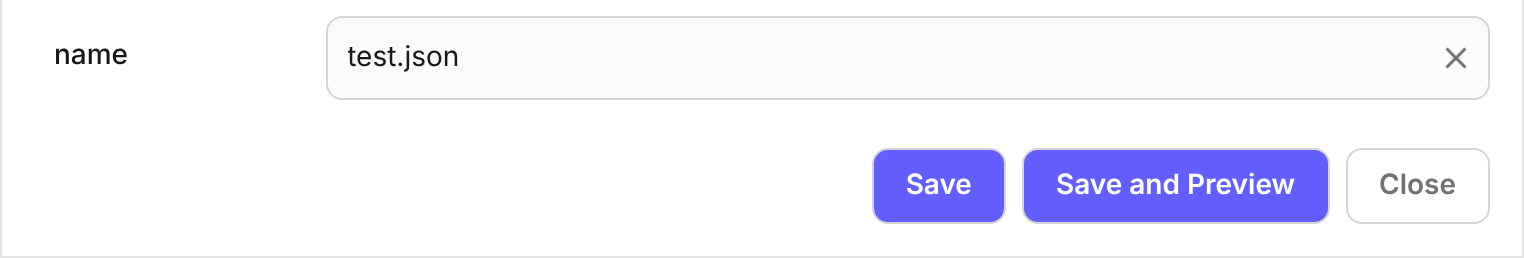
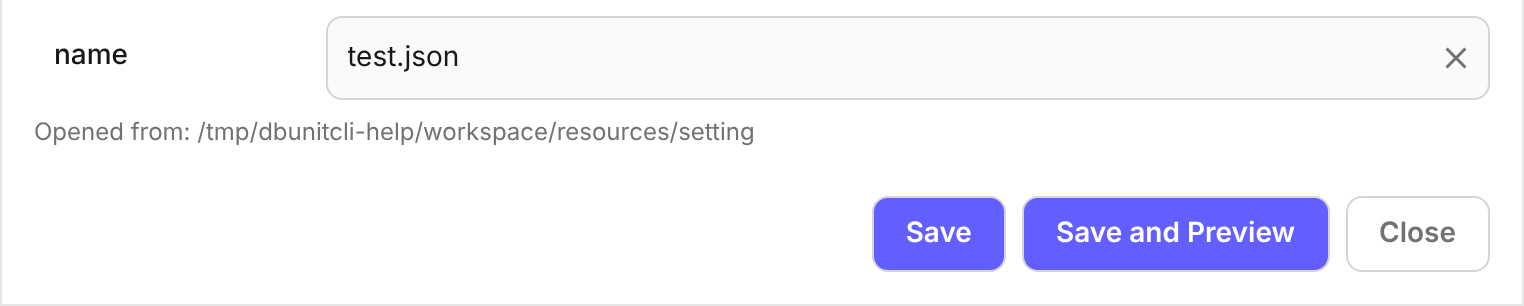
tauri: 名前メニューを閉じた状態をnullで表し、起動直後の描画エラーを直す
- サイドバーの名前メニューは閉じている間も{}のeditNameで描画され、useParameterActionsのcommand.toLowerCase()が例外になり画面全体が落ちていた
- 閉じた状態をnullで表し、メニュー本体（操作・外側クリックで閉じる）は開いているときだけ描画する。メニューから開くダイアログは閉じた後も残す
- 撮影スクリプトを複数行の入力欄の行ごとのid（name_0等）に合わせ、ヘルプの画面イメージを撮り直す

Claude-Session: https://claude.ai/code/session_01BG6cLyd2aknnpcF77aoAGH

diff --git a/tauri/src/app/sidebar/NameEditMenu.tsx b/tauri/src/app/sidebar/NameEditMenu.tsx
@@ -26,31 +26,15 @@ type MenuEditProp = {
 	handleMenuParameterize?: () => void;
 };
 
+// 名前の⋮メニュー（editNameがnullなら閉じている）と、メニューから開くダイアログ。
+// ダイアログはメニューを閉じた後も開いておくため、メニュー（editName）とは別に持つ
 export default function NameEditMenu({
 	editName,
 	setEditName,
 }: {
-	editName: EditName;
-	setEditName: (editName: EditName) => void;
+	editName: EditName | null;
+	setEditName: (editName: EditName | null) => void;
 }) {
-	const wrapperRef = useRef<HTMLDivElement>(null);
-	useEffect(() => {
-		function handleClickOutside(event: Event) {
-			if (
-				wrapperRef.current &&
-				!wrapperRef.current.contains(event.target as HTMLElement)
-			) {
-				setEditName({} as EditName);
-			}
-		}
-		document.addEventListener("mousedown", handleClickOutside);
-		return () => document.removeEventListener("mousedown", handleClickOutside);
-	}, [setEditName]);
-	const { handleDelete, handleCopy, handleRename } = useParameterActions(
-		editName.command,
-		editName.name,
-	);
-	// メニューを閉じた後も開いておくため、メニュー（editName）とは別に持つ
 	const [parameterizeTarget, setParameterizeTarget] = useState<{
 		command: string;
 		name: string;
@@ -74,51 +58,15 @@ export default function NameEditMenu({
 				setDeleteTarget({ name, files });
 			}
 		});
-	const canParameterize =
-		editName.command && editName.command !== "parameterize";
 	return (
 		<>
-			{editName.name && (
-				<div
-					ref={wrapperRef}
-					className="absolute z-dropdown p-4 pb-0 text-content bg-surface border border-border-subtle rounded-lg shadow-dropdown"
-					style={
-						editName.afterEdge
-							? { left: editName.x, top: editName.y - 150 }
-							: { left: editName.x, top: editName.y }
-					}
-				>
-					<MenuEdit
-						name={editName.name}
-						handleMenuDelete={() => {
-							if (editName.command === "parameterize") {
-								deleteParameterizeOrConfirm(editName.name);
-							} else {
-								handleDelete();
-							}
-							setEditName({} as EditName);
-						}}
-						handleMenuRename={(newName: string) => {
-							handleRename(newName);
-							setEditName({} as EditName);
-						}}
-						handleMenuCopy={() => {
-							handleCopy();
-							setEditName({} as EditName);
-						}}
-						handleMenuParameterize={
-							canParameterize
-								? () => {
-										setParameterizeTarget({
-											command: editName.command,
-											name: editName.name,
-										});
-										setEditName({} as EditName);
-									}
-								: undefined
-						}
-					/>
-				</div>
+			{editName && (
+				<EditMenuPopup
+					editName={editName}
+					closeMenu={() => setEditName(null)}
+					onDeleteParameterize={deleteParameterizeOrConfirm}
+					onParameterize={setParameterizeTarget}
+				/>
 			)}
 			{deleteTarget && (
 				<ParameterizeDeleteDialog
@@ -138,6 +86,80 @@ export default function NameEditMenu({
 				/>
 			)}
 		</>
+	);
+}
+
+// 開いている⋮メニュー。外をクリックしたら閉じる。操作したら閉じる
+function EditMenuPopup({
+	editName,
+	closeMenu,
+	onDeleteParameterize,
+	onParameterize,
+}: {
+	editName: EditName;
+	closeMenu: () => void;
+	onDeleteParameterize: (name: string) => void;
+	onParameterize: (target: { command: string; name: string }) => void;
+}) {
+	const wrapperRef = useRef<HTMLDivElement>(null);
+	useEffect(() => {
+		function handleClickOutside(event: Event) {
+			if (
+				wrapperRef.current &&
+				!wrapperRef.current.contains(event.target as HTMLElement)
+			) {
+				closeMenu();
+			}
+		}
+		document.addEventListener("mousedown", handleClickOutside);
+		return () => document.removeEventListener("mousedown", handleClickOutside);
+	}, [closeMenu]);
+	const { handleDelete, handleCopy, handleRename } = useParameterActions(
+		editName.command,
+		editName.name,
+	);
+	const canParameterize = editName.command !== "parameterize";
+	return (
+		<div
+			ref={wrapperRef}
+			className="absolute z-dropdown p-4 pb-0 text-content bg-surface border border-border-subtle rounded-lg shadow-dropdown"
+			style={
+				editName.afterEdge
+					? { left: editName.x, top: editName.y - 150 }
+					: { left: editName.x, top: editName.y }
+			}
+		>
+			<MenuEdit
+				name={editName.name}
+				handleMenuDelete={() => {
+					if (editName.command === "parameterize") {
+						onDeleteParameterize(editName.name);
+					} else {
+						handleDelete();
+					}
+					closeMenu();
+				}}
+				handleMenuRename={(newName: string) => {
+					handleRename(newName);
+					closeMenu();
+				}}
+				handleMenuCopy={() => {
+					handleCopy();
+					closeMenu();
+				}}
+				handleMenuParameterize={
+					canParameterize
+						? () => {
+								onParameterize({
+									command: editName.command,
+									name: editName.name,
+								});
+								closeMenu();
+							}
+						: undefined
+				}
+			/>
+		</div>
 	);
 }
 function MenuEdit(prop: MenuEditProp) {

diff --git a/tauri/src/tests/app/sidebar/NameEditMenu.test.tsx b/tauri/src/tests/app/sidebar/NameEditMenu.test.tsx
@@ -1,0 +1,60 @@
+import { render, screen } from "@testing-library/react";
+import userEvent from "@testing-library/user-event";
+import { describe, expect, it, vi } from "vitest";
+import NameEditMenu from "../../../app/sidebar/NameEditMenu";
+
+const { mockParameterActions } = vi.hoisted(() => ({
+	mockParameterActions: vi.fn(),
+}));
+vi.mock("../../../hooks/useSelectParameter", () => ({
+	useParameterizeCandidates: () => ({ candidates: [], loading: false }),
+	useParameterizeFrom: () => vi.fn(),
+	useLoadParameterizeFiles: () => vi.fn(),
+	useDeleteParameterize: () => vi.fn(),
+	useParameterActions: (command: string, name: string) => {
+		mockParameterActions(command, name);
+		return {
+			handleDelete: vi.fn(),
+			handleCopy: vi.fn(),
+			handleRename: vi.fn(),
+		};
+	},
+}));
+
+const editName = {
+	name: "csvCsv",
+	command: "compare",
+	x: 0,
+	y: 0,
+	afterEdge: false,
+};
+
+describe("NameEditMenuのテスト", () => {
+	it("閉じている（null）ときはメニューを出さず、パラメータの操作も用意しない", () => {
+		render(<NameEditMenu editName={null} setEditName={vi.fn()} />);
+
+		expect(screen.queryByTitle("delete")).not.toBeInTheDocument();
+		expect(mockParameterActions).not.toHaveBeenCalled();
+	});
+
+	it("開いたら選んだcommandと名前で操作を用意する", () => {
+		render(<NameEditMenu editName={editName} setEditName={vi.fn()} />);
+
+		expect(screen.getByTitle("delete")).toBeInTheDocument();
+		expect(mockParameterActions).toHaveBeenCalledWith("compare", "csvCsv");
+	});
+
+	it("メニューの外をクリックしたら閉じる（nullにする）", async () => {
+		const setEditName = vi.fn();
+		render(
+			<>
+				<p>outside</p>
+				<NameEditMenu editName={editName} setEditName={setEditName} />
+			</>,
+		);
+
+		await userEvent.click(screen.getByText("outside"));
+
+		expect(setEditName).toHaveBeenCalledWith(null);
+	});
+});

diff --git a/tauri/src/tests/app/sidebar/ParameterizeOptionDialog.test.tsx b/tauri/src/tests/app/sidebar/ParameterizeOptionDialog.test.tsx
@@ -154,10 +154,10 @@ describe("NameEditMenuのParameterizeのテスト", () => {
 		);
 
 		await userEvent.click(screen.getByTitle("Parameterize"));
-		expect(setEditName).toHaveBeenCalledWith({});
+		expect(setEditName).toHaveBeenCalledWith(null);
 		expect(mockParameterizeFrom).not.toHaveBeenCalled();
 
-		rerender(<NameEditMenu editName={{} as never} setEditName={setEditName} />);
+		rerender(<NameEditMenu editName={null} setEditName={setEditName} />);
 		await userEvent.click(
 			screen.getByRole("checkbox", { name: "-new.srcType" }),
 		);

diff --git a/tauri/src/app/main/Sidebar.tsx b/tauri/src/app/main/Sidebar.tsx
@@ -14,7 +14,7 @@ export type EditName = {
 	afterEdge: boolean;
 };
 export default function Sidebar({ setSidebarWidth }: SidebarProps) {
-	const [editName, setEditName] = useState<EditName>({} as EditName);
+	const [editName, setEditName] = useState<EditName | null>(null);
 	const sidebarRef = useRef(null);
 	const [width, setWidth] = useState(200);
 	const minWidth = 200;
